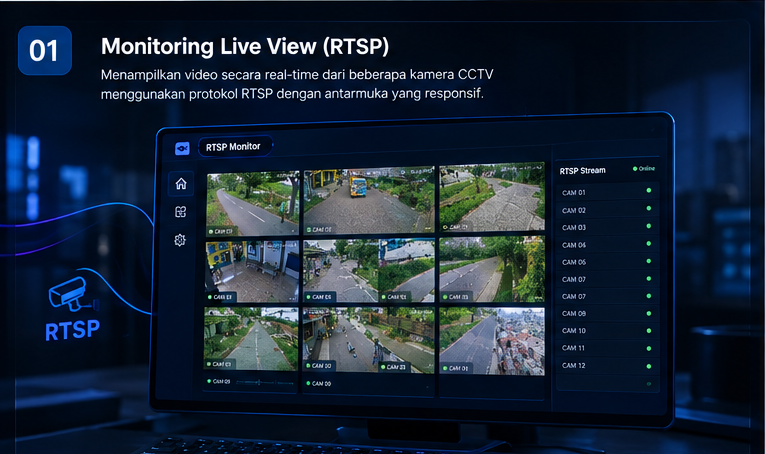
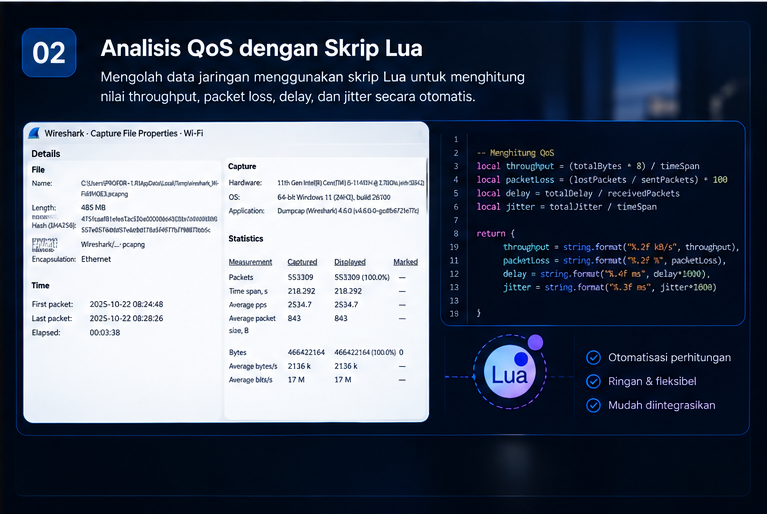
up

diff --git a/src/resources/content.tsx b/src/resources/content.tsx
@@ -220,14 +220,7 @@ const about: About = {
           },
         ],
         // optional: leave the array empty if you don't want to display images
-        images: [
-          {
-            src: "/images/projects/project-01/cover-04.png",
-            alt: "Project image",
-            width: 16,
-            height: 9,
-          },
-        ],
+        
       },
     ],
   },
